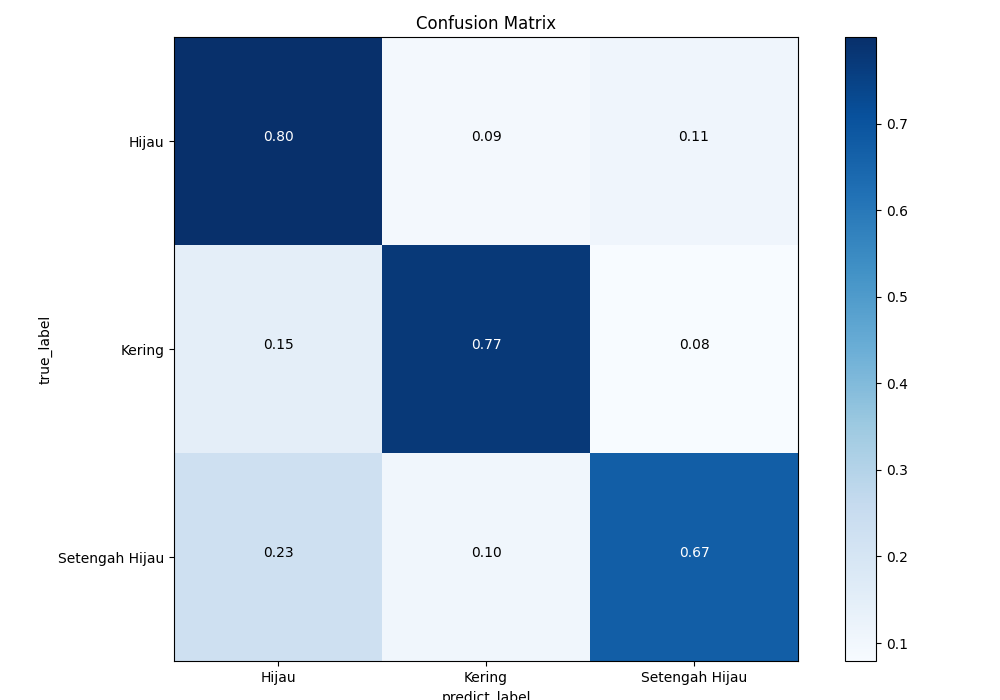
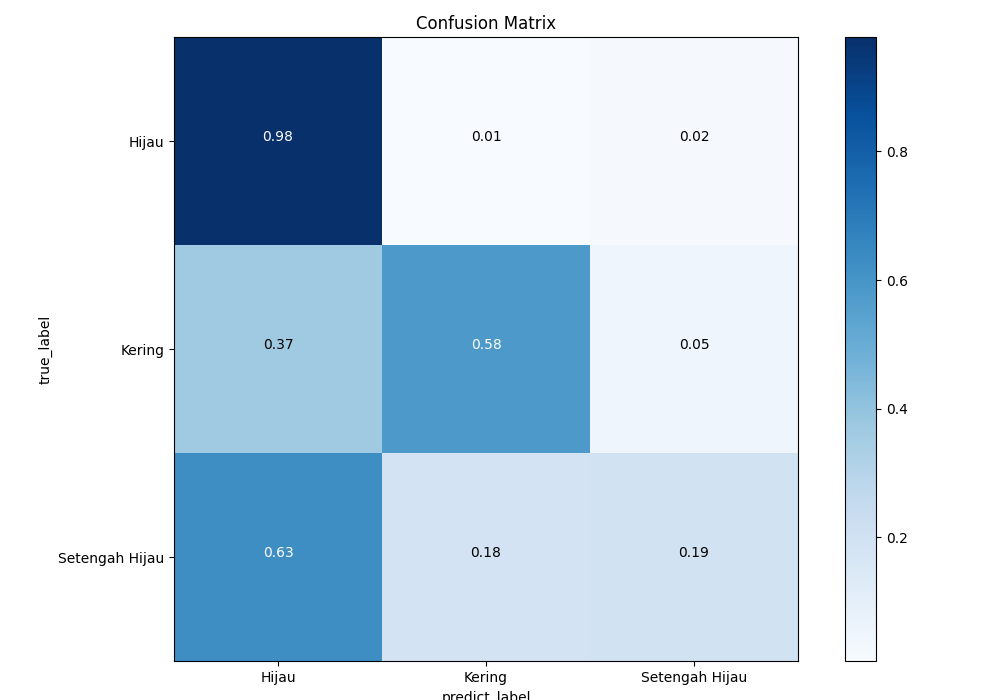
add pelatihan.py

diff --git a/pelatihan.py b/pelatihan.py
@@ -13,6 +13,7 @@ import joblib
 import warnings
 import itertools
 import os
+import base64
 
 def plot_confusion_matrix(cm,classes,normalize=False,title='Confusion Matrix',cmap=plt.cm.Blues):
   if normalize:
@@ -52,6 +53,9 @@ try:
   record_count = int(len(record)/3)
   for x in record:
     data_input = x[0]
+    data_input = data_input.replace('/', '\\')
+    data_path = "C:\\Users\\Angellina\\Dropbox\\My PC (LAPTOP-9GTQMRFV)\\Desktop\\ALL SKRIPSI\\GITHUB\\dataset\\"
+    data_input = data_path+data_input
     label = x[1]
     img_array = imread(data_input)
     img_resized = resize(img_array, (100,100))
@@ -70,7 +74,11 @@ try:
   print('y_train:', y_train.shape)
   print('y_test:', y_test.shape)
   #Training kernel SVM model
-  svm_name = 'linear'
+  cursor.execute("SELECT Svm_type FROM svm_kernel;")
+  svm_record = cursor.fetchall()
+  for y in svm_record:
+    svm_type = y[0]
+  svm_name = svm_type
   classifier = SVC(kernel=svm_name).fit(X_train, y_train)
   #Predicting the testing data
   y_predict = classifier.predict(X_test)
@@ -79,14 +87,14 @@ try:
   con_matrx = confusion_matrix(y_test, y_predict)
   np.set_printoptions(precision=2)
   print('confusion_matrix:', con_matrx)
-  # Plot confusion matrix without normalization
-  plt.figure()
-  confusion_matrix_1 = plot_confusion_matrix(con_matrx, classes=["Hijau","Kering","Setengah Hijau"])
-  plt.savefig('output/confusion_matrix/confusion_matrix_without_normalization.png')
+  # # Plot confusion matrix without normalization
+  # plt.figure()
+  # confusion_matrix_1 = plot_confusion_matrix(con_matrx, classes=["Hijau","Kering","Setengah Hijau"])
+  # plt.savefig('C:\\Users\\Angellina\\Dropbox\\My PC (LAPTOP-9GTQMRFV)\\Desktop\\ALL SKRIPSI\\GITHUB\\svm-classification\\output\\confusion_matrix\\confusion_matrix_without_normalization.png')
   # Plot confusion matrix with normalization
   plt.figure()
   confusion_matrix_2 = plot_confusion_matrix(con_matrx, classes=["Hijau","Kering","Setengah Hijau"], normalize=True)
-  plt.savefig('output/confusion_matrix/confusion_matrix_with_normalization.png')
+  plt.savefig('C:\\Users\\Angellina\\Dropbox\\My PC (LAPTOP-9GTQMRFV)\\Desktop\\ALL SKRIPSI\\GITHUB\\svm-classification\\output\\confusion_matrix\\confusion_matrix_with_normalization.png')
   accuracy = accuracy_score(y_test, y_predict) 
   accuracy = accuracy * 100
   print('accuracy:', round(accuracy,2), '%')
@@ -112,7 +120,32 @@ try:
   print("Record for evaluation inserted")
   #Save model
   print("=======================================================================")
-  joblib.dump(classifier, "output/data_model/svm_data_model.pkl")
+  joblib.dump(classifier, "C:\\Users\\Angellina\\Dropbox\\My PC (LAPTOP-9GTQMRFV)\\Desktop\\ALL SKRIPSI\\GITHUB\\dataset\\output\\data_model\\svm_data_model.pkl")
   print("Model saved")
+except Error as e:
+  print("Error while connecting to MySQL", e)
+
+#Select plot data training from local repository and save base64 value to database
+count_num_2 = 0
+root_path = "C:\\Users\\Angellina\\Dropbox\\My PC (LAPTOP-9GTQMRFV)\\Desktop\\ALL SKRIPSI\\GITHUB\\svm-classification\\output\\confusion_matrix"
+try:
+  tunnel = SSHTunnelForwarder(("vicenza.id.domainesia.com", 64000), ssh_password="6yqW[d9bYR;S87", ssh_username="svmclass", remote_bind_address=("localhost", 3306)) 
+  tunnel.start()
+  conn = pymysql.connect(host="127.0.0.1", user="svmclass_root", passwd="angeljelek6gt!", db = "svmclass_classification", port=tunnel.local_bind_port)
+  print("=======================================================================")
+  cursor = conn.cursor()
+  cursor.execute('DROP TABLE IF EXISTS confusion_matrix_encode;')
+  print('Creating table confusion_matrix_encode')
+  cursor.execute("CREATE TABLE confusion_matrix_encode (Id int(20) NOT NULL auto_increment, Confusion_matrix_encode longtext, PRIMARY KEY(Id))")
+  cursor.execute("SET @@auto_increment_increment=1;")
+  print("Table confusion_matrix_encode is created")
+  for row in os.listdir(root_path):
+    with open(root_path+"/"+row, "rb") as image_file:
+      cm_encode = base64.b64encode(image_file.read())
+    sql = "INSERT INTO svmclass_classification.confusion_matrix_encode (Confusion_matrix_encode) VALUES (%s)"
+    cursor.execute(sql, cm_encode)
+    conn.commit()
+    count_num_2 = count_num_2 + 1
+    print(count_num_2, "Record for confusion_matrix_encode inserted")
 except Error as e:
   print("Error while connecting to MySQL", e)
